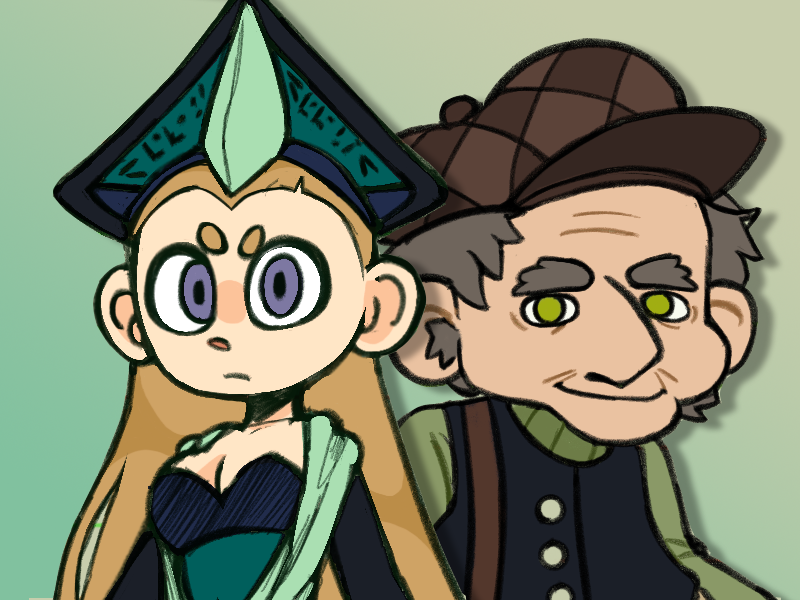
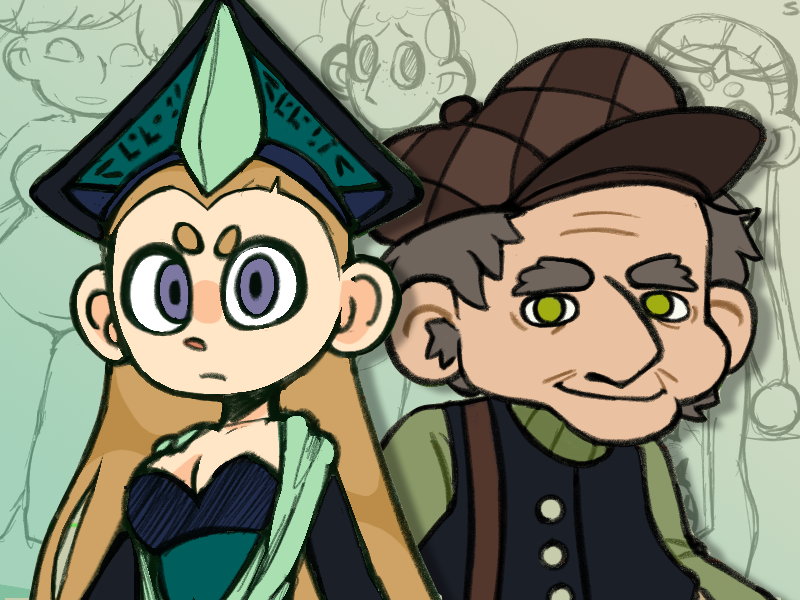
Added all thumbnails

diff --git a/index.html b/index.html
@@ -16,7 +16,7 @@
     </head>
     <body id="page-top">
         <nav class="navbar navbar-expand-lg bg-secondary fixed-top" id="mainNav">
-            <div class="container"><a class="navbar-brand js-scroll-trigger" href="#page-top">Eden Takenaka</a>
+            <div class="container"><a class="navbar-brand js-scroll-trigger" href="#page-top">Eden Takenaka<span style="font-weight:100; color:#ffffff78"> - Character Designer</span></a>
                 <button class="navbar-toggler navbar-toggler-right font-weight-bold bg-primary text-white rounded" type="button" data-toggle="collapse" data-target="#navbarResponsive" aria-controls="navbarResponsive" aria-expanded="false" aria-label="Toggle navigation"><i class="fas fa-bars"></i></button>
                 <div class="collapse navbar-collapse" id="navbarResponsive">
                     <ul class="navbar-nav ml-auto">
@@ -71,35 +71,35 @@
                         <div class="portfolio-item mx-auto" data-toggle="modal" data-target="#portfolioModal1">
                             <div class="portfolio-item-caption d-flex align-items-center justify-content-center h-100 w-100">
                                 <div class="portfolio-item-caption-content text-center text-white">Baba Yaga</div>
-                            </div><img class="img-fluid" src="assets/img/portfolio/cake.png" alt="Baba Yaga"/>
+                            </div><img class="img-fluid" src="assets/img/portfolio/baba.png" alt="Baba Yaga"/>
                         </div>
                     </div>
                     <div class="col-md-6 col-lg-6 mb-5">
                         <div class="portfolio-item mx-auto" data-toggle="modal" data-target="#portfolioModal2">
                             <div class="portfolio-item-caption d-flex align-items-center justify-content-center h-100 w-100">
                                 <div class="portfolio-item-caption-content text-center text-white">Fanart</div>
-                            </div><img class="img-fluid" src="assets/img/portfolio/circus.png" alt="Fanart"/>
+                            </div><img class="img-fluid" src="assets/img/portfolio/fanart.png" alt="Fanart"/>
                         </div>
                     </div>
                     <div class="col-md-6 col-lg-6 mb-5">
                         <div class="portfolio-item mx-auto" data-toggle="modal" data-target="#portfolioModal3">
                             <div class="portfolio-item-caption d-flex align-items-center justify-content-center h-100 w-100">
                                 <div class="portfolio-item-caption-content text-center text-white">Shotgun Bunny</div>
-                            </div><img class="img-fluid" src="assets/img/portfolio/game.png" alt="Shotgun Bunny"/>
+                            </div><img class="img-fluid" src="assets/img/portfolio/bunny.png" alt="Shotgun Bunny"/>
                         </div>
                     </div>
                     <div class="col-md-6 col-lg-6 mb-5">
                         <div class="portfolio-item mx-auto" data-toggle="modal" data-target="#portfolioModal4">
                             <div class="portfolio-item-caption d-flex align-items-center justify-content-center h-100 w-100">
                                 <div class="portfolio-item-caption-content text-center text-white">Here Together</div>
-                            </div><img class="img-fluid" src="assets/img/portfolio/safe.png" alt="Here Together"/>
+                            </div><img class="img-fluid" src="assets/img/portfolio/together.png" alt="Here Together"/>
                         </div>
                     </div>
                     <div class="col-md-6 col-lg-6 mb-5">
                         <div class="portfolio-item mx-auto" data-toggle="modal" data-target="#portfolioModal5">
                             <div class="portfolio-item-caption d-flex align-items-center justify-content-center h-100 w-100">
                                 <div class="portfolio-item-caption-content text-center text-white">Other personal work</div>
-                            </div><img class="img-fluid" src="assets/img/portfolio/submarine.png" alt="Other personal work"/>
+                            </div><img class="img-fluid" src="assets/img/portfolio/personal.png" alt="Other personal work"/>
                         </div>
                     </div>
                 </div>
@@ -149,7 +149,7 @@
                     <div class="modal-body text-center">
                         <div class="container">
                             <div class="row justify-content-center">
-                                <div class="col-lg-8">
+                                <div class="col-lg-10">
                                     <!-- Portfolio Modal - Title-->
                                     <h2 class="portfolio-modal-title text-secondary mb-0">Tasty Cake</h2>
                                     <!-- Icon Divider-->
@@ -173,7 +173,7 @@
                     <div class="modal-body text-center">
                         <div class="container">
                             <div class="row justify-content-center">
-                                <div class="col-lg-8">
+                                <div class="col-lg-10">
                                     <!-- Portfolio Modal - Title-->
                                     <h2 class="portfolio-modal-title text-secondary mb-0">Circus Tent</h2>
                                     <!-- Icon Divider-->
@@ -200,7 +200,7 @@
                     <div class="modal-body text-center">
                         <div class="container">
                             <div class="row justify-content-center">
-                                <div class="col-lg-8">
+                                <div class="col-lg-10">
                                     <!-- Portfolio Modal - Title-->
                                     <h2 class="portfolio-modal-title text-secondary mb-0">Controller</h2>
                                     <!-- Icon Divider-->
@@ -227,7 +227,7 @@
                     <div class="modal-body text-center">
                         <div class="container">
                             <div class="row justify-content-center">
-                                <div class="col-lg-8">
+                                <div class="col-lg-10">
                                     <!-- Portfolio Modal - Title-->
                                     <h2 class="portfolio-modal-title text-secondary mb-0">Locked Safe</h2>
                                     <!-- Icon Divider-->
@@ -254,7 +254,7 @@
                     <div class="modal-body text-center">
                         <div class="container">
                             <div class="row justify-content-center">
-                                <div class="col-lg-8">
+                                <div class="col-lg-10">
                                     <!-- Portfolio Modal - Title-->
                                     <h2 class="portfolio-modal-title text-secondary mb-0">Submarine</h2>
                                     <!-- Icon Divider-->

diff --git a/css/styles.css b/css/styles.css
@@ -7318,7 +7318,7 @@ h3 {
     left: 0;
     transition: all 0.2s ease-in-out;
     opacity: 0;
-    background-color: rgba(24, 26, 42, 0.9); }
+    background-color: rgba(24, 26, 42, 0.7); }
     .portfolio .portfolio-item .portfolio-item-caption:hover {
       opacity: 1; }
     .portfolio .portfolio-item .portfolio-item-caption .portfolio-item-caption-content {
